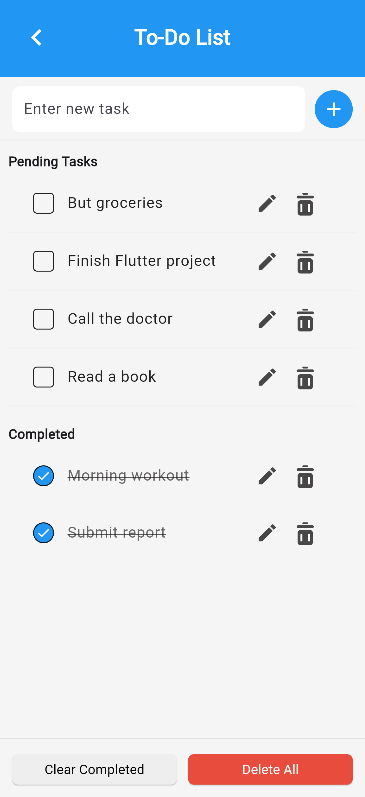
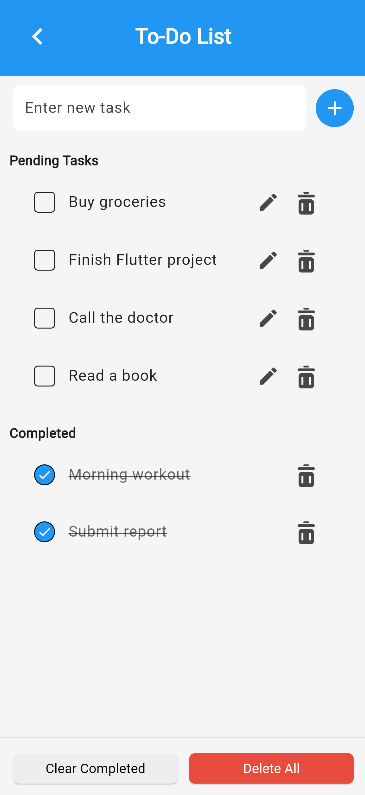
Added README with screenshots

diff --git a/lib/screens/todo_screen.dart b/lib/screens/todo_screen.dart
@@ -146,10 +146,11 @@ class _TodoScreenState extends State<TodoScreen> {
         trailing: Row(
           mainAxisSize: MainAxisSize.min,
           children: [
-            IconButton(
-              icon: const Icon(Icons.edit, size: 24, color: iconColor),
-              onPressed: () => editTask(index),
-            ),
+            if (!task.isCompleted)
+              IconButton(
+                icon: const Icon(Icons.edit, size: 24, color: iconColor),
+                onPressed: () => editTask(index),
+              ),
 
             IconButton(
               onPressed: () => deleteTask(index),
@@ -159,7 +160,6 @@ class _TodoScreenState extends State<TodoScreen> {
                 child: Stack(
                   alignment: Alignment.center,
                   children: [
-                    // body
                     Positioned(
                       bottom: 0,
                       child: Container(
@@ -171,8 +171,6 @@ class _TodoScreenState extends State<TodoScreen> {
                         ),
                       ),
                     ),
-
-                    // lines
                     Positioned(
                       bottom: 4,
                       left: 7,
@@ -191,8 +189,6 @@ class _TodoScreenState extends State<TodoScreen> {
                         color: Colors.white,
                       ),
                     ),
-
-                    // lid
                     Positioned(
                       top: 5,
                       child: Container(
@@ -204,8 +200,6 @@ class _TodoScreenState extends State<TodoScreen> {
                         ),
                       ),
                     ),
-
-                    // handle
                     Positioned(
                       top: 2,
                       child: Container(
